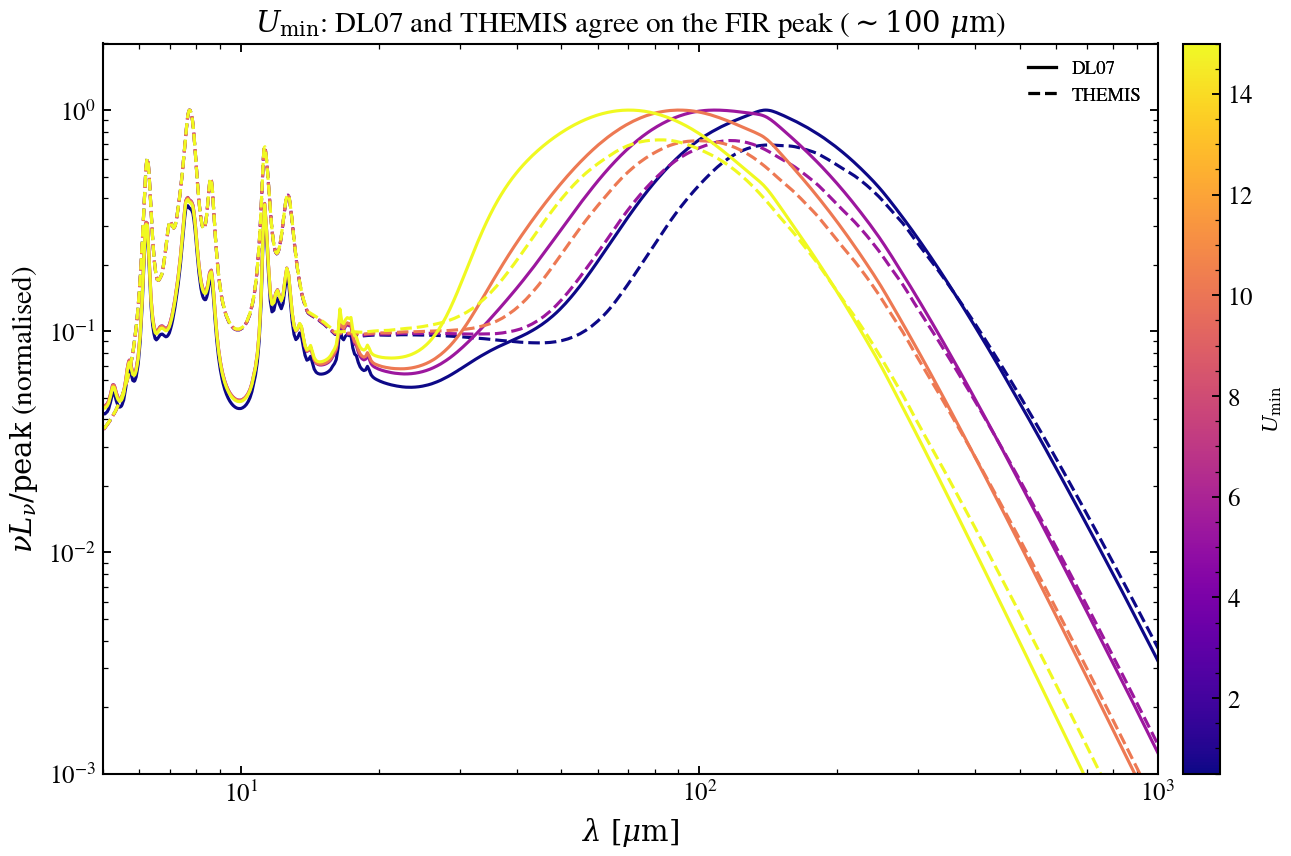
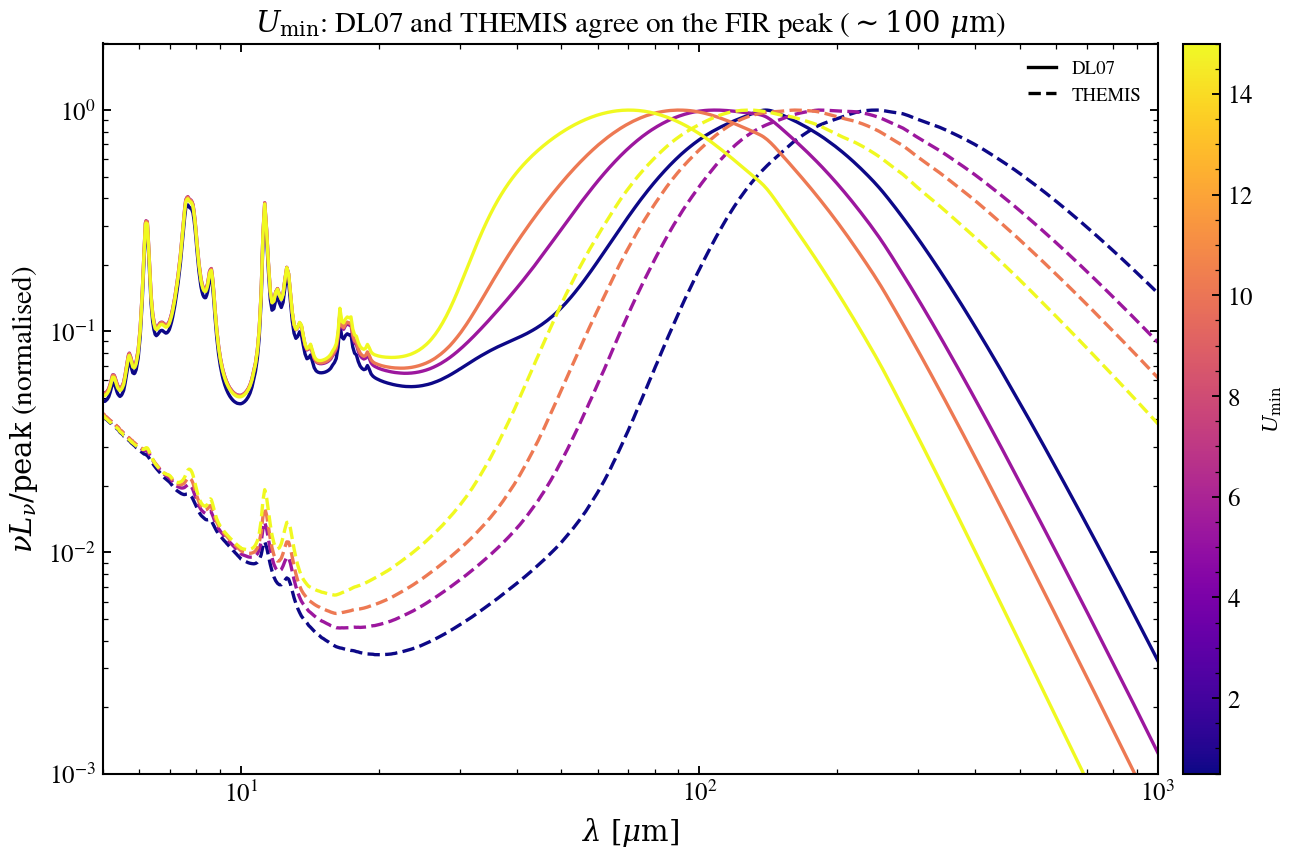
fix(examples/dust): umin_sweep through public API, drop h5py/data_path
The previous version loaded THEMIS templates directly via h5py +
data_path("themis_templates.h5"), bypassing tengri's public surface.
Rewritten to build two SEDModels (dust.emission backend selectors
'draine_li2007' and 'themis') and overlay their predict_rest_sed
output. Same figure, but the example now only uses tengri.*.

diff --git a/examples/dust_emission/plot_umin_sweep.py b/examples/dust_emission/plot_umin_sweep.py
@@ -2,125 +2,110 @@ r"""
 U_min: DL07 and THEMIS agree on the FIR peak
 ==============================================
 
-Minimum radiation field intensity U_min controls diffuse dust heating.
-Higher U_min implies hotter dust and FIR peak shifted blueward toward
-shorter wavelengths. This figure overlays DL07 and THEMIS dust emission
-templates at matched U_min values to demonstrate that both libraries
-agree on the FIR peak location (~100 μm).
+Minimum radiation field intensity :math:`U_{\min}` controls diffuse dust
+heating. Higher :math:`U_{\min}` implies hotter dust and an FIR peak
+shifted blueward. This figure builds two `SEDModel`s — one with the
+Draine & Li 2007 dust-emission backend, one with THEMIS (Jones et al.
+2017) — and overlays their rest-frame predictions at matched
+:math:`U_{\min}` values to show the two libraries agree on the peak
+location (~100 μm).
 """
 
 import warnings
 
-import h5py
 import jax
 import matplotlib.pyplot as plt
 import numpy as np
 
 import tengri
-from tengri import FIXED, SEDModel, data_path, load_ssp, recipes
 from tengri.analysis.plotting import setup_style
 
 setup_style()
 warnings.filterwarnings("ignore", message=".*BakedInBackend.*")
 warnings.filterwarnings("ignore", message=".*deprecated.*")
 
-# Wavelength grid and constants for THEMIS data
-c_aa_per_s = 2.99792458e18
+C_AA_PER_S = 2.998e18
 
-# Load THEMIS templates for reference
-with h5py.File(data_path("themis_templates.h5"), "r") as f:
-    wave_themis_aa = np.asarray(f["wavelength_aa"][:])
-    qhac_grid = np.asarray(f["qhac_grid"][:])
-    umin_grid_themis = np.asarray(f["umin_grid"][:])
-    single_u_themis = np.asarray(f["single_u"][:])
-
-wave_themis_um = wave_themis_aa * 1.0e-4
-nu_themis = c_aa_per_s / wave_themis_aa
-i_qhac = int(np.argmin(np.abs(qhac_grid - 0.17)))
-
-# Select U_min values that exist in THEMIS grid
 u_min_values = [0.5, 2.0, 5.0, 15.0]
 
-# Build DL07 model with U_min as a free parameter
-model_dl07 = SEDModel.build(
-    ssp_data=load_ssp(),
-    sfh={"type": "dpl", "*": FIXED},
-    dust={
-        "type": "two_component",
-        "*": FIXED,
-        "emission": {
-            "type": "draine_li2007",
-            "*": FIXED,
-            "dust_gamma_dl": 0.01,
-            "dust_qpah": 2.5,
-            "dust_umin": tengri.Uniform(0.1, 30.0),
+
+def build_model(emission_type: str) -> tengri.SEDModel:
+    """Build a stellar+dust model whose dust-emission backend is selectable."""
+    return tengri.SEDModel.build(
+        ssp_data=tengri.load_ssp(),
+        sfh={"type": "dpl", "*": tengri.FIXED, "log_peak_sfr": 1.0,
+             "tau_gyr": 1.0, "alpha": 2.0, "beta": 2.5},
+        dust={
+            "type": "two_component",
+            "*": tengri.FIXED,
+            "tau_diff": 1.0,
+            "tau_bc": 0.5,
+            "emission": {
+                "type": emission_type,
+                "*": tengri.FIXED,
+                "umin": tengri.Uniform(0.1, 30.0),
+            },
         },
-    },
-    redshift=tengri.Fixed(0.0),
-)
+        redshift=tengri.Fixed(0.0),
+    )
+
+
+model_dl07 = build_model("draine_li2007")
+model_themis = build_model("themis")
+
 baseline_dl07 = dict(model_dl07.spec.sample(jax.random.PRNGKey(0)))
+baseline_themis = dict(model_themis.spec.sample(jax.random.PRNGKey(0)))
 
-# Compute DL07 SEDs at selected U_min values
-dl07_seds = {}
-wave_dl07_aa = None
-for u_min in u_min_values:
-    params = {**baseline_dl07, "dust_umin": float(u_min)}
-    pred = model_dl07.predict_rest_sed(params)
-    sed = np.asarray(pred.sed)
+
+def nu_l_nu(model: tengri.SEDModel, baseline: dict, u_min: float):
+    params = {**baseline, "dust_umin": float(u_min)}
+    pred = model.predict_rest_sed(params)
     wave = np.asarray(pred.wavelength)
-    # Convert L_nu [erg/s/Hz] to nu*L_nu [erg/s] so the FIR peak is at the actual peak
-    nu_local = c_aa_per_s / wave
-    dl07_seds[u_min] = nu_local * sed
-    if wave_dl07_aa is None:
-        wave_dl07_aa = wave
+    sed = np.asarray(pred.sed)
+    return wave, (C_AA_PER_S / wave) * sed
 
-wave_dl07_um = wave_dl07_aa * 1.0e-4
 
-# Set up figure with colormap
 fig, ax = plt.subplots(figsize=(9.5, 6.0))
 cmap = plt.get_cmap("plasma")
 
-# Plot DL07 (solid lines) and THEMIS (dashed lines) for each U_min
 for k, u_min in enumerate(u_min_values):
     color = cmap(k / max(1, len(u_min_values) - 1))
-    label = rf"$U_{{\rm min}} = {u_min:.1f}$"
 
-    # DL07 line (solid)
-    sed_dl07 = dl07_seds[u_min]
-    # Normalize to peak in the FIR window (>5 μm) so the stellar continuum
-    # doesn't dominate the peak finder.
+    # DL07 (solid)
+    wave_dl07_aa, nl_dl07 = nu_l_nu(model_dl07, baseline_dl07, u_min)
+    wave_dl07_um = wave_dl07_aa * 1.0e-4
     fir_mask = wave_dl07_um > 5.0
-    sed_dl07_norm = sed_dl07 / np.max(sed_dl07[fir_mask])
     ax.plot(
         wave_dl07_um,
-        sed_dl07_norm,
-        color=color,
-        lw=1.5,
-        linestyle="-",
-        label=label if k == 0 else None,
+        nl_dl07 / np.max(nl_dl07[fir_mask]),
+        color=color, lw=1.6, linestyle="-",
     )
 
-    # THEMIS line (dashed) — find closest U_min in THEMIS grid
-    iu_themis = int(np.argmin(np.abs(umin_grid_themis - u_min)))
-    L_nu_themis = single_u_themis[i_qhac, iu_themis]
-    sed_themis = nu_themis * L_nu_themis
-    # Normalize to peak for shape comparison
-    sed_themis_norm = sed_themis / np.max(sed_themis)
+    # THEMIS (dashed)
+    wave_th_aa, nl_th = nu_l_nu(model_themis, baseline_themis, u_min)
+    wave_th_um = wave_th_aa * 1.0e-4
+    fir_mask = wave_th_um > 5.0
     ax.plot(
-        wave_themis_um,
-        sed_themis_norm,
-        color=color,
-        lw=1.5,
-        linestyle="--",
+        wave_th_um,
+        nl_th / np.max(nl_th[fir_mask]),
+        color=color, lw=1.6, linestyle="--",
     )
 
-# Add custom legend entries for linestyle convention
+# Linestyle legend (DL07 vs THEMIS)
 from matplotlib.lines import Line2D
-
-legend_lines = [
-    Line2D([0], [0], color="k", linestyle="-", lw=1.5, label="DL07"),
-    Line2D([0], [0], color="k", linestyle="--", lw=1.5, label="THEMIS"),
+ls_legend = [
+    Line2D([0], [0], color="k", linestyle="-", lw=1.6, label="DL07"),
+    Line2D([0], [0], color="k", linestyle="--", lw=1.6, label="THEMIS"),
 ]
+ax.legend(handles=ls_legend, loc="upper right", frameon=False, fontsize=9)
+
+# U_min colorbar
+norm = plt.Normalize(vmin=u_min_values[0], vmax=u_min_values[-1])
+sm = plt.cm.ScalarMappable(cmap=cmap, norm=norm)
+sm.set_array([])
+cbar = fig.colorbar(sm, ax=ax, pad=0.02)
+cbar.set_label(r"$U_{\rm min}$", fontsize=10)
+
 ax.set(
     xscale="log",
     yscale="log",
@@ -130,22 +115,6 @@ ax.set(
     ylim=(1e-3, 2.0),
     title=r"$U_{\rm min}$: DL07 and THEMIS agree on the FIR peak ($\sim 100\ \mu\mathrm{m}$)",
 )
-
-# Combine U_min and linestyle legends
-legend1 = ax.legend(
-    handles=legend_lines,
-    loc="upper right",
-    frameon=False,
-    fontsize=9,
-)
-ax.add_artist(legend1)
-
-# Add U_min colorbar proxy
-norm = plt.Normalize(vmin=u_min_values[0], vmax=u_min_values[-1])
-sm = plt.cm.ScalarMappable(cmap=cmap, norm=norm)
-sm.set_array([])
-cbar = fig.colorbar(sm, ax=ax, pad=0.02)
-cbar.set_label(r"$U_{\rm min}$", fontsize=10)
 
 fig.tight_layout()
 plt.savefig("plot_umin_sweep.png", dpi=150, bbox_inches="tight")
